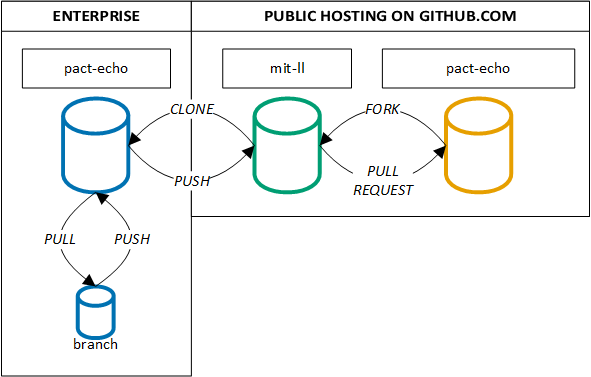
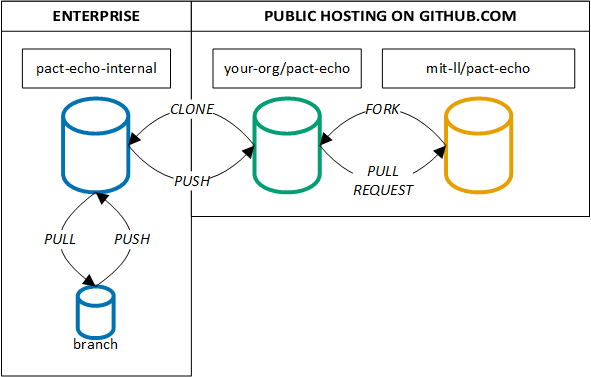
additional updates to contributing document

diff --git a/CONTRIBUTING.md b/CONTRIBUTING.md
@@ -1,4 +1,4 @@
-# How to contribute
+# How to contribute ##
 
 We encourage the use of the [GitHub Issues](https://guides.github.com/features/issues/) for bug reports, new feature requests, etc. To streamline reporting, issues will only be enabled for the [pact-echo](https://github.com/mit-ll/pact-echo/) repository.
 
@@ -37,78 +37,78 @@ No public technology roadmap for development is available yet. As the project ma
 
 ## Workflow ##
 
-A variety of organizations from academia, federal agencies, federally funded research and development centers (FFRDC), and industry are supporting or plan to support the development of this project. Each organization has different policies on release review and procedures to disseminate content. Organizations may also have their own enterprise self-hosted version control systems.
+A variety of organizations from academia, federal agencies, federal funded research and development centers (FFRDC), and industry have supported data collection for PACT. Each organization has different policies on release review and procedures to disseminate content. Organizations may also have their own enterprise self-hosted version control systems.
 
-We recommend the following workflow that perseveres content part of the [pact-echo](https://github.com/mit-ll/pact-echo) organization as a "gold benchmark" while promoting a traceable workflow for contributors.
+We recommend the following workflow that perseveres content part of the [pact-echo](https://github.com/mit-ll/pact-echo) repository as a "gold benchmark" while promoting a traceable workflow for contributors.
 
 ![Workflow](images/workflow.png)
 
-We'll use an illustrative example with MIT Lincoln Laboratory, a FFRDC with strict release review policies, with their public [mit-ll](https://github.com/mit-ll) organization and a private enterprise system to explain this workflow. For organizations that permit public development, ignore steps with the enterprise instance.
+We'll use an illustrative example with an organization with strict release review policies, with their public organization (*your-org*) and a private enterprise system to explain this workflow. For organizations that permit public development, ignore steps with the enterprise instance.
 
 1. The repository required for development is identified in [pact-echo](https://github.com/mit-ll/pact-echo)
-2. This repository is forked by the [mit-ll](https://github.com/mit-ll) organization.
-3. The new repository on [mit-ll](https://github.com/mit-ll) organization is cloned by the enterprise self-hosted GitHub. Note you can't fork from public to private, see this Stack Overflow question for mitigations: [Is it possible to fork a public GitHub repo into an enterprise repository?](https://stackoverflow.com/q/29952033)
-- Prior to any changes, there are now three instances of the repository: a private enterprise clone (pact-echo-internal), a public fork ([mit-ll](https://github.com/mit-ll)), and the original ([pact-echo](https://github.com/mit-ll/pact-echo)).
+2. This repository is forked by the *your-org* organization.
+3. The new repository on *your-org* organization is cloned by the enterprise self-hosted GitHub. Note: you can't fork from public to private, see this Stack Overflow question for mitigations: [Is it possible to fork a public GitHub repo into an enterprise repository?](https://stackoverflow.com/q/29952033)
+- Prior to any changes, there are now three instances of the repository: a private enterprise clone (pact-echo-internal), a public fork (your-org/pact-echo), and the original ([pact-echo](https://github.com/mit-ll/pact-echo)).
 4. Development is conducted using branches on the enterprise clone.
-5. When development is over, the clone will be released review according to internal policies.
+5. When development is over, the clone will be reviewed for release according to internal policies.
 6. Once the clone is approved for public release, changes will be pushed to the public fork.
 7. A pull request will be opened to contribute back to the original.
-8. The encounter model administrators will review the pull request and either accept or reject it.
+8. The pact-echo administrators will review the pull request and either accept or reject it.
 
-## Bugs
+## Bugs ##
 
 According to [Wikipedia](https://en.wikipedia.org/wiki/Software_bug), a software bug is a:
 > A software bug is an error, flaw, failure or fault in a computer program or system that causes it to produce an incorrect or unexpected result, or to behave in unintended ways.
 
-### Reporting Bugs
+### Reporting Bugs ###
 
 - **Ensure the bug was not already reported** by searching on GitHub under [Issues](https://github.com/mit-ll/pact-echo/issues).
 - If you're unable to find an open issue addressing the problem, [open a new one](https://github.com/mit-ll/pact-echo/issues) using the [bug report](.github/ISSUE_TEMPLATE/bug_report.md) template. Be sure to include a title, a clear description, and as much relevant information as possible.
 - Confirm that the bug report template assigned a BUG label to the issue.
 
-### Patching Bugs
+### Patching Bugs ###
 
 - Open a new GitHub pull request with the patch.
 - Ensure the pull request description clearly describes the problem and solution. Include the relevant issue number if applicable.
 - Before submitting, please read the [convention guide](#convention-guide) to know more about coding conventions and recommended units.
 
-### Cosmetic Patch
+### Cosmetic Patch ###
 
 Changes that are cosmetic in nature, such as fixing whitespaces characters or formatting code, and do not add anything substantial to the stability, functionality, or testability will generally not be accepted. Our rational aligns with those expressed by the [Ruby on Rails team](https://github.com/rails/rails/pull/13771#issuecomment-32746700).
 
-## Enhancements and New Features
+## Enhancements and New Features ###
 
 According to [Wikipedia](https://en.wikipedia.org/wiki/Software_feature) and IEEE 829, a software feature is a:
 > A distinguishing characteristic of a software item (e.g., performance, portability, or functionality.
 
-### Requesting features
+### Requesting features ###
 
-- **Ensure the feature was not already requested** by searching on GitHub under [Issues](https://github.com/mit-ll/pact-echo/em-overview/issues).
-- If you're unable to find an open issue for the desired feature, [open a new one](https://github.com/mit-ll/pact-echo/em-overview/issues) using the [feature request](.github/ISSUE_TEMPLATE/feature_request.md) template. Be sure to include a title, a clear description, and as much relevant information as possible.
+- **Ensure the feature was not already requested** by searching on GitHub under [Issues](https://github.com/mit-ll/pact-echo/issues).
+- If you're unable to find an open issue for the desired feature, [open a new one](https://github.com/mit-ll/pact-echo/issues) using the [feature request](.github/ISSUE_TEMPLATE/feature_request.md) template. Be sure to include a title, a clear description, and as much relevant information as possible.
 - Confirm that the feature request template assigned an ENHANCEMENT label to the issue.
 
-### Developing features
+### Developing features ###
 
 - Fork the repository associated with the feature request and develop the desired capabilities
 - Open a new GitHub pull request with the enhancement
 - Ensure the pull request description clearly addresses the feature request. Include the relevant issue number. Unlike bugs, enhancements without a traceable issue number will not have the pull request accepted.
 - Before submitting, please read the [convention guide](#convention-guide) to know more about coding conventions and recommended units. Some documentation and code commenting is required for the pull request to be accepted too.
 
-### Requesting documentation
+### Requesting documentation ###
 
 Requesting more or a clarification of documentation is a valid feature request. Note as a community development project, it would be nearly impossible to enforce authors of a specific piece of code to respond to the documentation request.
 
-## Convention Guide
+## Convention Guide ##
 
-### Character Encoding
+### Character Encoding ###
 
 To facilitate cross-platform compatibility, please use UTF-8 or ASCII. Note that UTF-8 is backwards compatible with ASCII.
 
-### Documentation
+### Documentation ###
 
 **Pull requests with no documentation will be rejected.** We believe documentation is good and integral to the success of a community software project. However, we recognize that everyone has different expectations and opinions on code documentation. [Self-documenting code](https://en.wikipedia.org/wiki/Self-documenting_code) should be sufficient in most cases but the use of inline comments to organize blocks of code are encouraged.
 
-### End of Line
+### End of Line ###
 
 To facilitate cross-platform compatibility, please use unix style line endings of `LF (\n)`. For three popular text editors, here are instructions on how to enable `LF` endings.
 
@@ -116,23 +116,7 @@ To facilitate cross-platform compatibility, please use unix style line endings o
 - [Notepad++: Preferences](https://stackoverflow.com/q/8195839)
 - [VS Code: User Preferences](https://stackoverflow.com/q/52404044)
 
-### System Environment Variables
-
-Persistent system environment variables are used to when referencing across and within repositories. They should follow a naming convention of `AEM_TYPE_DESCRIPTION`.
-
-- Persistent system variables should be written using all capital letters
-- Strings should be delimitated by an underscore, `_`
-- A prefix of `AEM` should always be used for software within this organization
-- The second string should describe what the variable references. Use `DIR` for directories; `FILE` for files; and `SCRIPT` for shell scripts.
-- The third string should provide additional descriptive information.
-
-### Variable Names
-
-- When applicable, variable names should include units, such as `speed_kt` or `el_ft_msl`. 
-- Delimiter-separated words should use an underscore, `_`
-- Variable names should be short yet meaningful. The choice of a variable name should be mnemonic — that is, designed to indicate to the casual observer the intent of its use. One-character variable names should be avoided except for temporary "throwaway" variables. Common names for temporary variables are `i`, `j`, `k`.
-
-### Colors
+### Colors ###
 
 To promote accessibility and align with graphic best practices, we recommend a color guidelines proposed by B. Wong that is perceived as reasonably distinct by both normal and color blind individuals. Selecting a widely perceived color scheme is particularly important for peer reviews, as B. Wong notes:
 

diff --git a/.github/ISSUE_TEMPLATE/bug_report.md b/.github/ISSUE_TEMPLATE/bug_report.md
@@ -1,0 +1,72 @@
+---
+name: Bug report
+about: Create a report to help us improve
+title: "[BUG]"
+labels: bug
+assignees: ''
+
+---
+
+Read the instructions and fill out your responses at the bottom.
+
+## Instructions
+
+### Description
+A clear and concise description of what the bug is.
+
+### Reproducibility
+
+Describe the exact steps which reproduce the problem in as many details as possible. For example, start by explaining how you started the computing environment or which command exactly you used in the terminal. When listing steps, don't just say what you did, but explain how you did it.
+
+Steps to reproduce the behavior:
+
+1. Go to '...'
+2. Click on '....'
+3. Scroll down to '....'
+4. See error
+
+### Expectation
+
+A clear and concise description of what you expected to happen.
+
+### Recency
+
+Did the problem start happening recently (e.g. after updating to a new version) or was this always a problem?
+
+### Files
+
+If the problem is related to working with files (e.g. opening and editing files), does the problem happen for all files and projects or only some? Does the problem happen only when working with local or remote files (e.g. on network drives), with files of a specific type (e.g. only JavaScript or Python files), with large files or files with very long lines, or with files in a specific encoding? Is there anything else special about the files you are using?
+
+### Environment
+
+- OS: [e.g. Windows 10, Ubuntu 18.04]
+- Programming language and version: [e.g. MATLAB 2019a, Julia 1.1.1]
+- Computing environment: [e.g. MATLAB, VS Code]
+- Are you running in a virtual machine" [e.g. yes, no]
+- Compiler (if applicable): [e.g. g++, cl]
+
+### Screenshots
+
+Include screenshots and animated GIFs which show you following the described steps and clearly demonstrate the problem. You can use this [tool](https://www.cockos.com/licecap/) to record GIFs on macOS and Windows, and this [tool](https://github.com/colinkeenan/silentcast) or this [tool](https://github.com/GNOME/byzanz) on Linux.
+
+### Additional context
+
+Add any other context about the problem here.
+
+## FILL ME OUT
+
+### Description
+
+### Reproducibility
+
+### Expectation
+
+### Recency
+
+### Files
+
+### Environment
+
+### Screenshots
+
+### Additional

diff --git a/.github/ISSUE_TEMPLATE/feature_request.md b/.github/ISSUE_TEMPLATE/feature_request.md
@@ -1,0 +1,38 @@
+---
+name: Feature request
+about: Suggest an idea for this project
+title: "[ENHANCEMENT]"
+labels: enhancement
+assignees: ''
+
+---
+
+## Instructions
+
+Read the instructions and fill out your responses at the bottom.
+
+### Relation
+
+Is your feature request related to a problem? Please describe. Please provide a clear and concise description of what the problem is. Ex. I'm always frustrated when [...]
+
+### Description
+
+A clear and concise description of what you want to happen.
+
+### Alternatives
+
+A clear and concise description of any alternative solutions or features you've considered.
+
+### Additional context
+
+Add any other context or screenshots about the feature request here.
+
+## FILL ME OUT
+
+### Relation
+
+### Description
+
+### Alternatives
+
+### Additional
